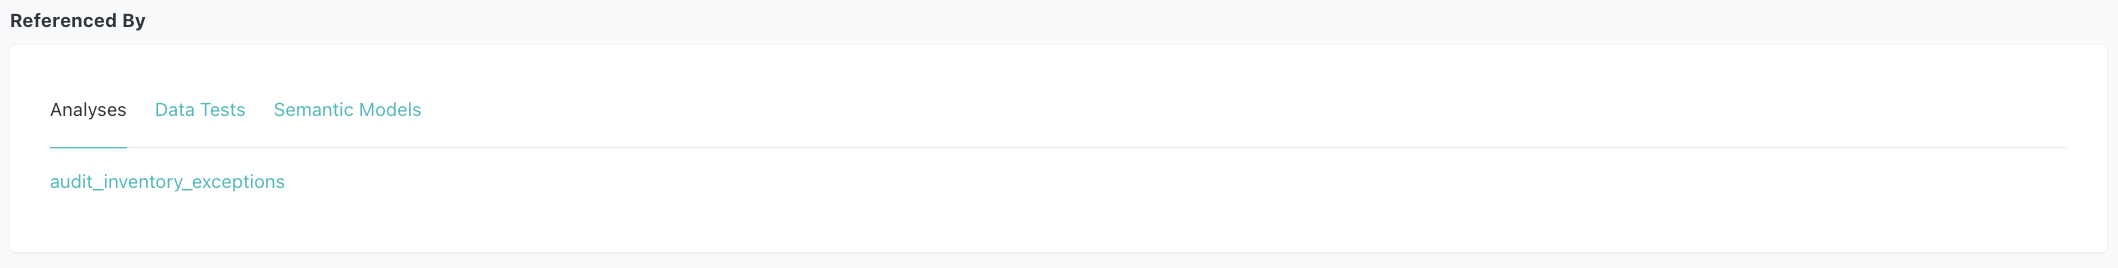
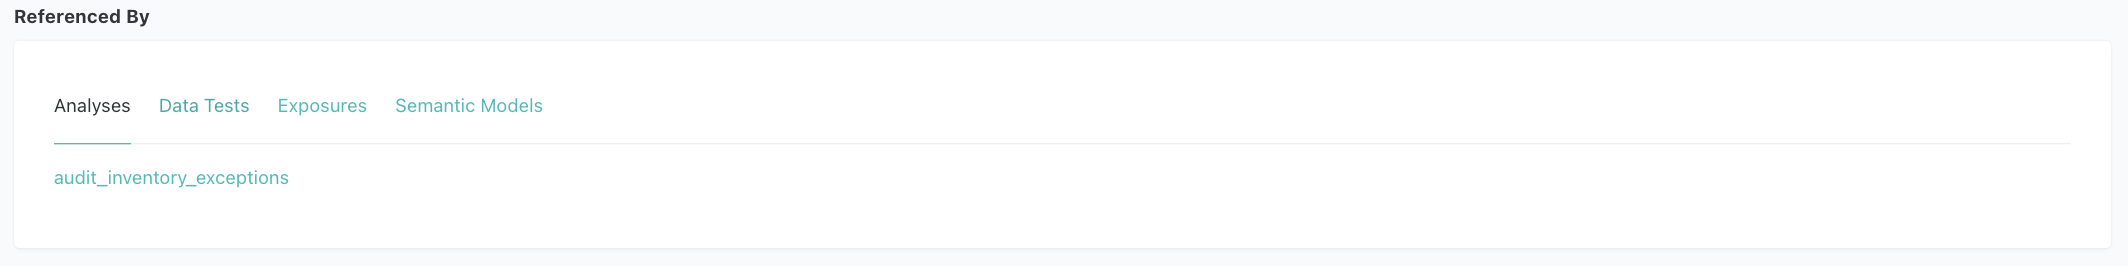
feat: add dbt exposures for Tableau dashboards

diff --git a/README.md b/README.md
@@ -56,7 +56,8 @@ I adopted a hybrid architecture to balance development efficiency with productio
     - ![#F1948A](https://placehold.co/12x12/F1948A/F1948A.png) Semantic Models (MetricFlow)
     - ![#E84393](https://placehold.co/12x12/E84393/E84393.png) MetricFlow Metrics
     - ![#1A252F](https://placehold.co/12x12/1A252F/1A252F.png) Utilities
-    - ![#E74C3C](https://placehold.co/12x12/E74C3C/E74C3C.png) Automated Data Quality Tests
+    - ![#E74C3C](https://placehold.co/12x12/E74C3C/E74C3C.png) Automated Data Quality Tests (Singular Tests)
+    - ![#ED7255](https://placehold.co/12x12/ED7255/ED7255.png) Exposures (Tableau dashboards)
 
 #### Model Directory
 * **Staging Layer** (`models/staging/thelook_ecommerce/`):
@@ -96,6 +97,7 @@ I adopted a hybrid architecture to balance development efficiency with productio
     - 📂 `_finance__models.yml` — consolidated model documentation
     - 📂 `_finance__semantic_models.yml` — MetricFlow semantic model definitions
     - 📂 `_finance__metrics.yml` — business metric definitions
+    - 📂 `_finance__exposures.yml` — downstream Tableau dashboard declarations (owner, dependencies)
 
 * **Utilities Layer** (`models/utilities/`):
     - 📂 `metricflow_time_spine.sql` — date spine table required by MetricFlow for time-based metric aggregation
@@ -326,9 +328,10 @@ Tags (`financial`, `audit_ready`), access level (`protected`), and model descrip
 7 dbt tests enforcing: `not_null` on `fiscal_year`, `product_id`, `risk_tier`; `accepted_values` on `audit_check_diff` (must be `0`), `inventory_risk_rating` (Healthy / Warning: Slow Moving / Critical: Obsolete / Adjustment Required: NRV < Cost), `risk_tier` (High / Medium / Low); and `unique_combination_of_columns` on `(fiscal_year, product_id)`.
 ![Data Tests](./images/model_data_tests.png)
 
-Referenced downstream by `audit_inventory_exceptions.sql` (ad-hoc audit analysis) and the `inventory_fiscal_report` semantic model (MetricFlow) — the same tested mart feeds both the audit drill-down and governed metric definitions.
+Referenced downstream by `audit_inventory_exceptions.sql` (ad-hoc audit analysis), the `inventory_fiscal_report` semantic model (MetricFlow), and the Inventory Dashboard exposure (Tableau) — the same tested mart feeds the audit drill-down, governed metric definitions, and the BI layer.
 ![Analyses](./images/model_data_analyses.png)
 ![Semantic Models](./images/model_data_semantic_models.png)
+![Exposures](./images/model_data_exposures.png)
 
 **Dependency Graph**
 Depends on `int_inventory_items_joined` (model), `scd_products` (snapshot), `fiscal_year_end` (macro), and `audit_materiality_thresholds` (seed) — all four dbt node types wired into a single model.
@@ -339,6 +342,8 @@ Depends on `int_inventory_items_joined` (model), `scd_products` (snapshot), `fis
 
 ### 5. Dashboard Showcase
 A 4-tab Tableau workbook (`tableau_workbook/audit_ready_dbt_dashboard (desktop) .twb`, packaged as `(server).twbx`) consuming the CSV exports above — one tab per mart, each pairing KPI tiles with an audit-oriented drill-down, putting the accounting logic above into an actual audit view.
+
+Each tab is declared as a dbt **exposure** (📂 `models/marts/finance/_finance__exposures.yml`), with an explicit `depends_on` back to its source mart(s) and an `owner`. This closes the lineage graph past the warehouse boundary — `dbt docs generate` shows not just staging → marts, but marts → the dashboards actually consuming them, so a breaking change to a mart surfaces which dashboard it would affect before it ships.
 
 **[▶ View live on Tableau Public](https://public.tableau.com/app/profile/sam.park8167/viz/audit_ready_dbt_dashboard/Revenue)**
 
